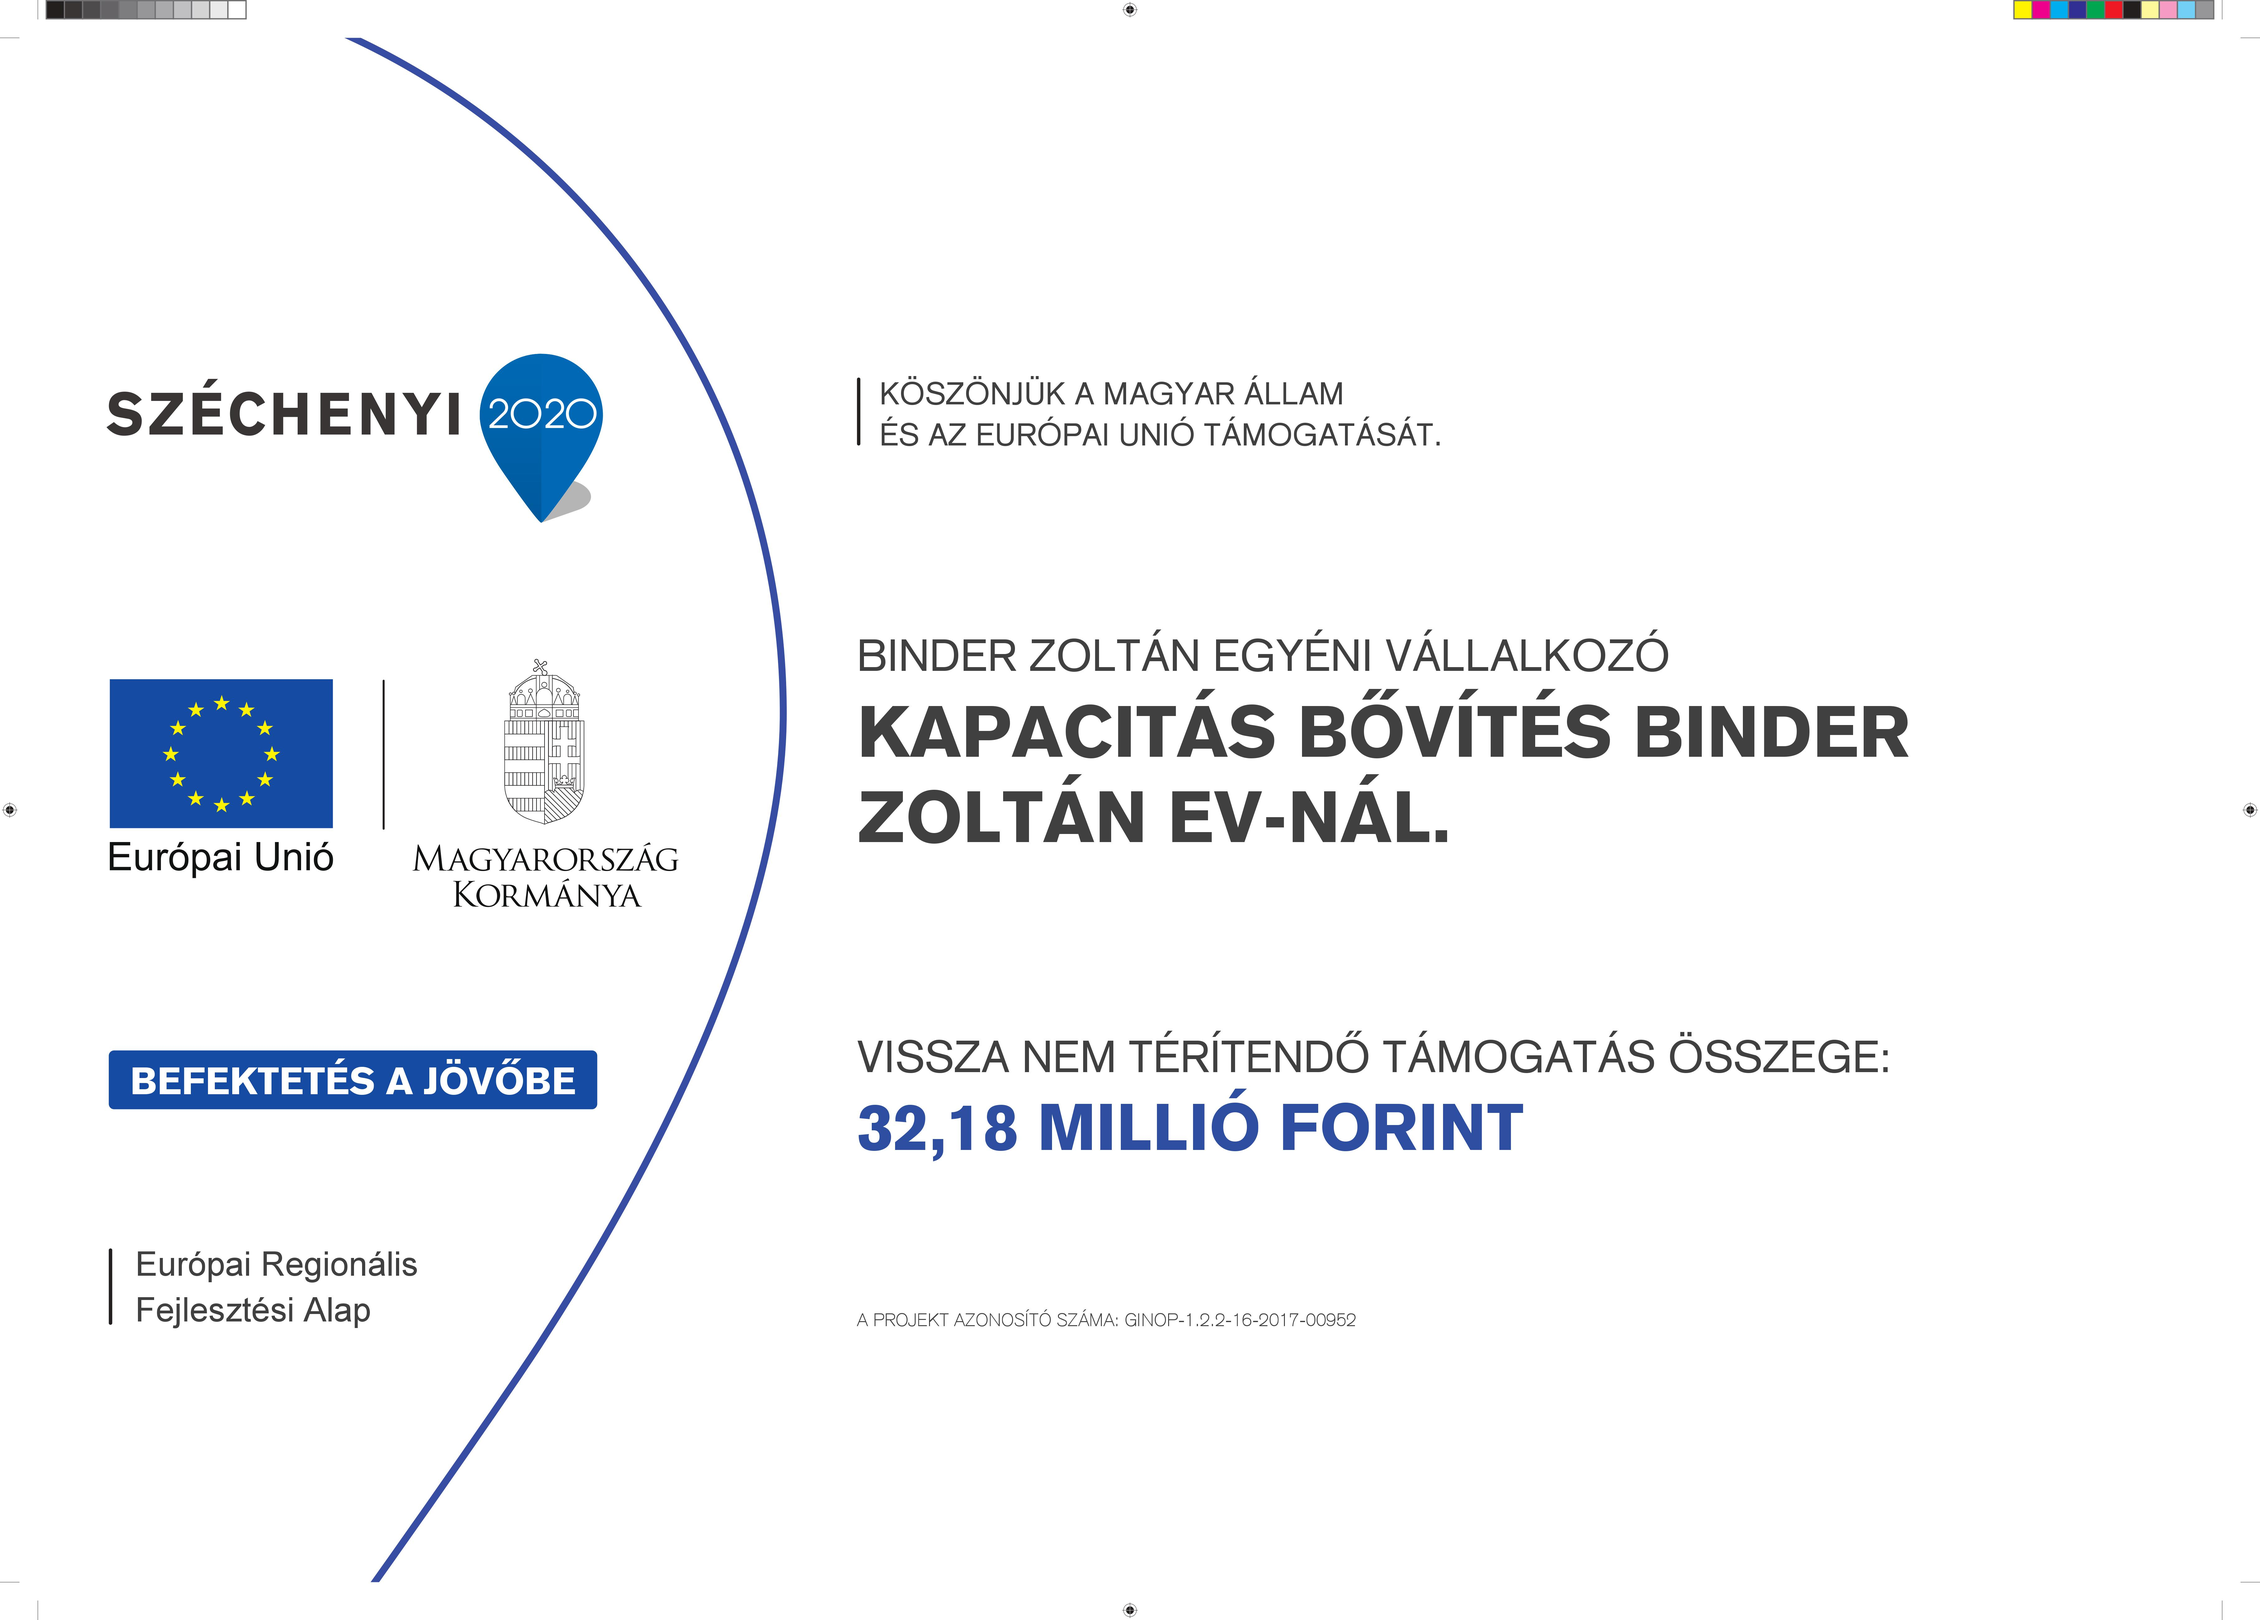
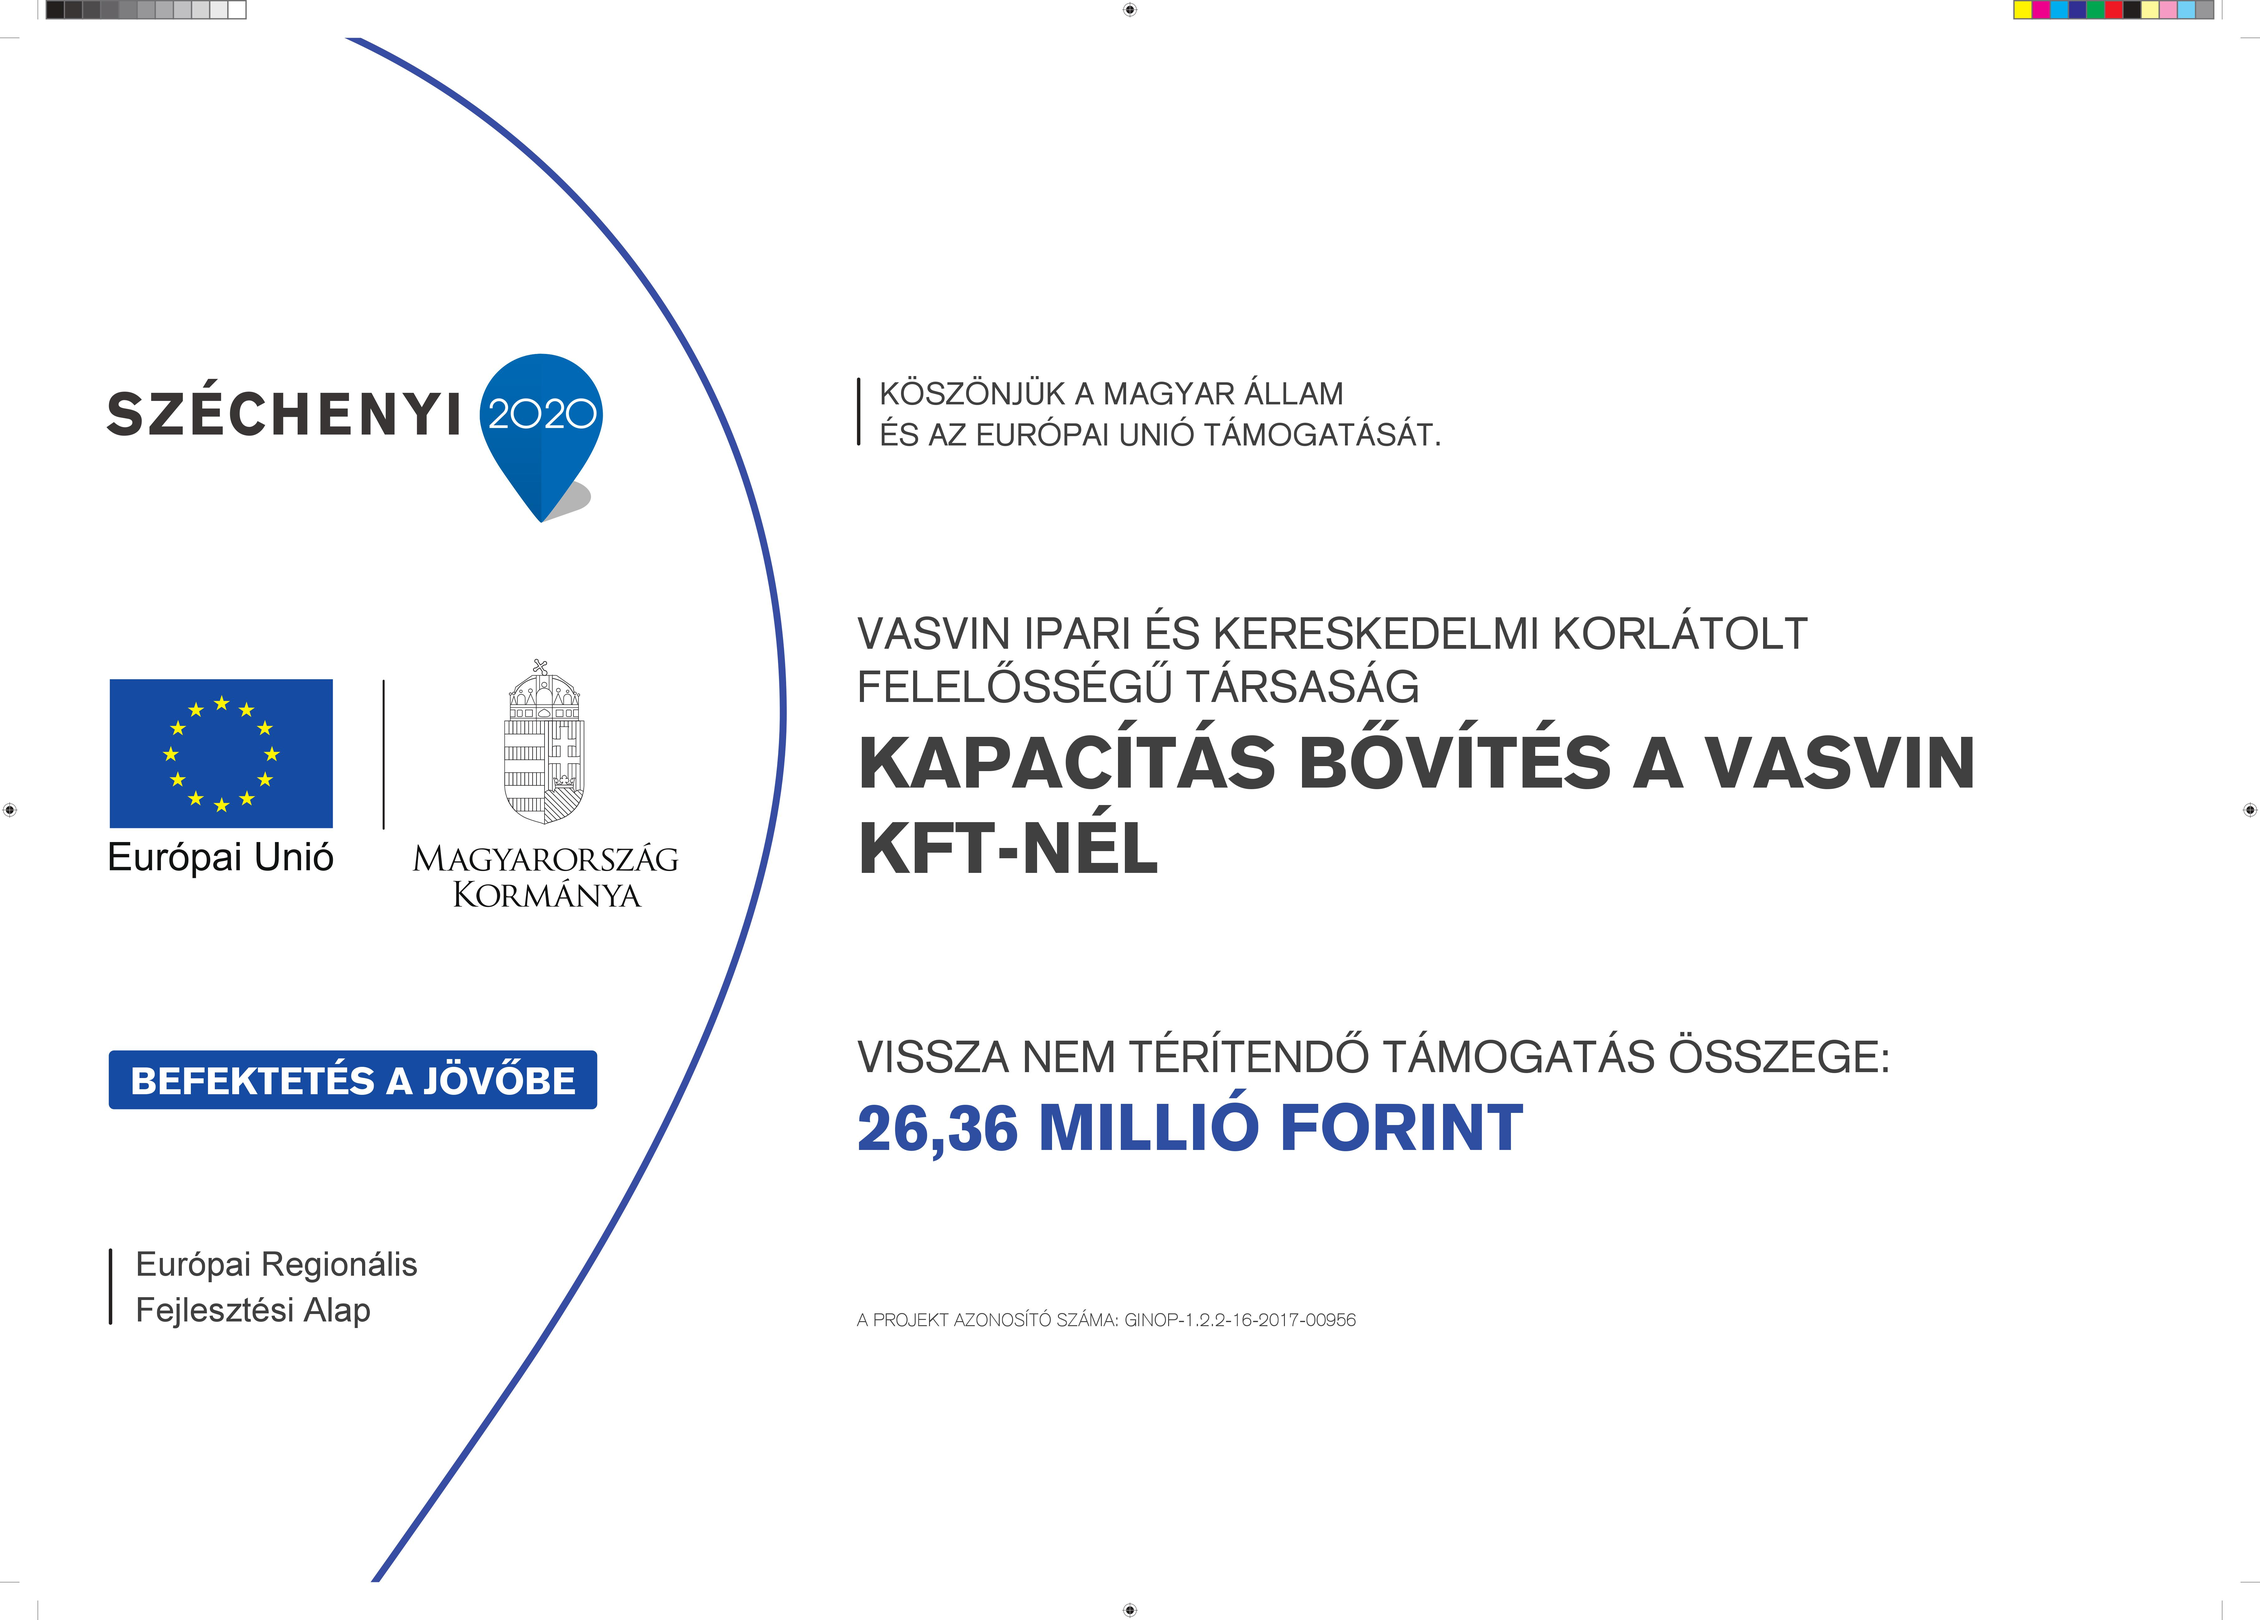
11th upload
11th upload

Changed region(s): [[0.3736, 0.3736, 0.8717, 0.5603], [0.3736, 0.6849, 0.4359, 0.716]]

diff --git a/index.html b/index.html
@@ -321,7 +321,7 @@
 
 <div id="portfolio" class="container-fluid text-center bg-grey">
   <h2>SZÉCHÉNYI 2020</h2><br>
-  <h4>KAPACITÁS BŐVÍTÉS BINDER ZOLTÁN EV-NÁL.</h4>
+  <h4>KAPACITÁS BŐVÍTÉS A VASVIN KFT-NÉL</h4>
   <div class="row text-center slideanim">
   <!--
     <div class="col-sm-4">
